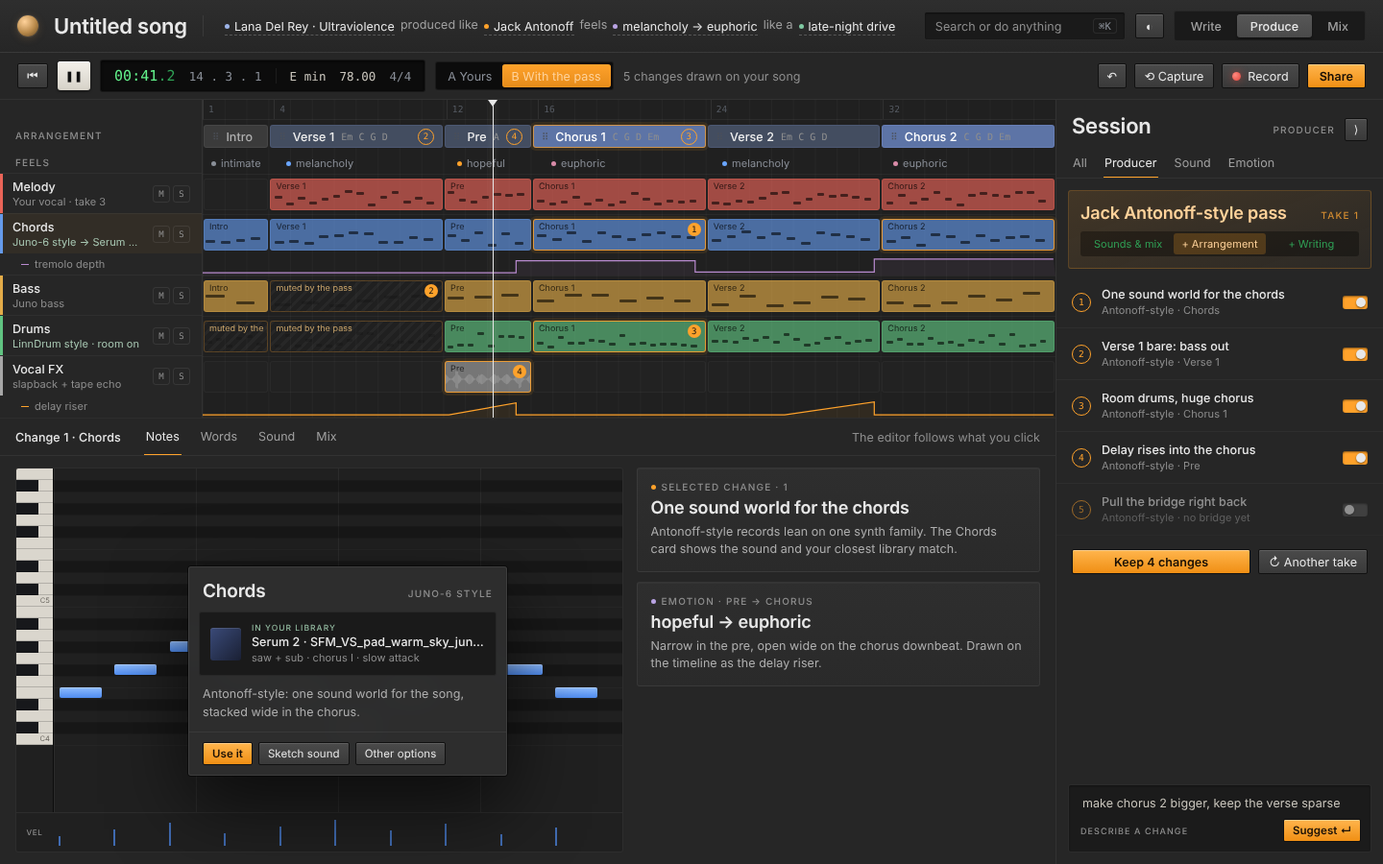
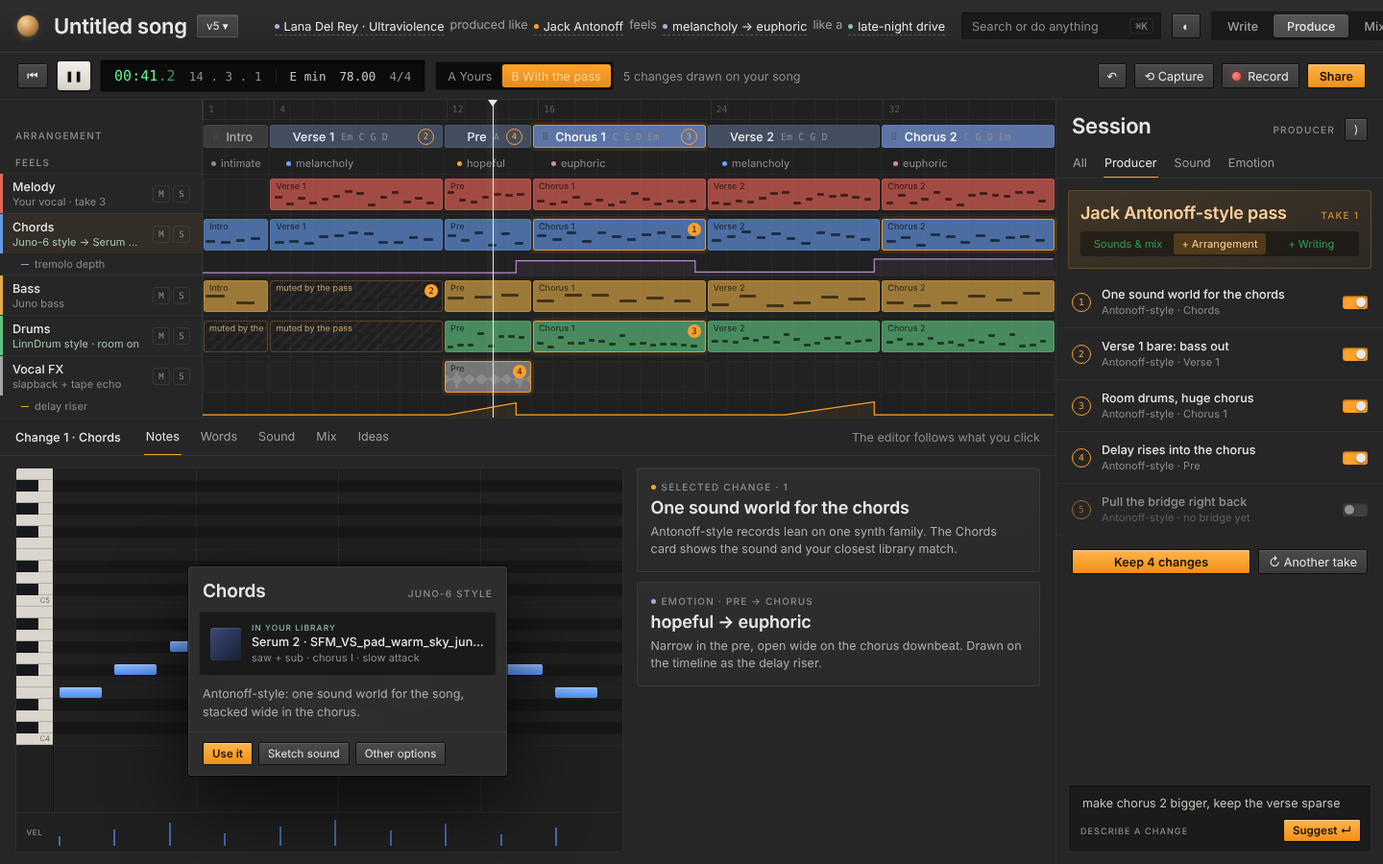
Design: Start with the recipe sentence, Words view, Versions, Ideas shelf, Pitch & share with range check; quality checks
Claude-Session: https://claude.ai/code/session_01Gwi5mznyCGAVwjhLcrp4R8

diff --git a/docs/design/merged/reference.dc.html b/docs/design/merged/reference.dc.html
@@ -13,7 +13,7 @@
 <style>
 body{margin:0;background:#0A0B0D}
 button,input{font:inherit;letter-spacing:inherit}
-button{cursor:pointer}
+button{cursor:pointer;white-space:nowrap}
 .sm{font-size:10px;letter-spacing:.12em;text-transform:uppercase;color:#6B7079;font-weight:500}
 .mono{font-family:'JetBrains Mono',monospace;font-variant-numeric:tabular-nums}
 .serif{font-family:'Instrument Serif',Georgia,serif;font-weight:400;letter-spacing:0}
@@ -26,8 +26,8 @@ button{cursor:pointer}
 
   <!-- 1 · header: song, recipe sentence, ⌘K, lens -->
   <header style="height: 54px; flex-shrink: 0; display: flex; align-items: center; gap: 16px; padding: 0 18px; border-bottom: 1px solid rgba(255,255,255,.06); background: linear-gradient(#121316, #0E0F12)">
-    <span aria-label="Semitone" style="width: 22px; height: 22px; border-radius: 50%; background: radial-gradient(circle at 35% 30%, #F1D6A6, #B8894A 55%, #5E4524); box-shadow: 0 0 0 1px rgba(255,255,255,.08), 0 2px 8px rgba(184,137,74,.25)"></span>
-    <span class="serif" style="font-size: 22px; line-height: 1">Untitled song</span>
+    <span aria-label="Semitone" style="flex-shrink: 0; width: 22px; height: 22px; border-radius: 50%; background: radial-gradient(circle at 35% 30%, #F1D6A6, #B8894A 55%, #5E4524); box-shadow: 0 0 0 1px rgba(255,255,255,.08), 0 2px 8px rgba(184,137,74,.25)"></span>
+    <span class="serif" style="font-size: 22px; line-height: 1; white-space: nowrap">{{songTitle}}</span><sc-if value="{{verChip}}" hint-placeholder-val="{{false}}"><button class="ghost xs" style="margin-left: -6px; border-color: {{verLine}}">v5 ▾</button></sc-if>
     <span style="width: 1px; height: 22px; background: rgba(255,255,255,.08)"></span>
     <div aria-label="Recipe" style="display: flex; align-items: baseline; gap: 6px; color: #7E838C; white-space: nowrap">
       <sc-for list="{{recipe}}" as="r" hint-placeholder-count="4">
@@ -157,6 +157,36 @@ button{cursor:pointer}
           <span style="margin-left: auto; align-self: center; color: #6B7079">{{drawerNote}}</span>
         </div>
         <div style="flex: 1; display: flex; gap: 14px; padding: 12px 16px; min-height: 0">
+          <sc-if value="{{lyr}}" hint-placeholder-val="{{false}}">
+            <div style="flex: 1.5; display: flex; border-radius: 8px; border: 1px solid rgba(255,255,255,.06); background: #0B0C0E; overflow: hidden; min-width: 0">
+              <div style="width: 96px; flex-shrink: 0; border-right: 1px solid rgba(255,255,255,.06); padding: 10px 0">
+                <sc-for list="{{lyr.secs}}" as="x" hint-placeholder-count="6"><div style="padding: 7px 14px; color: {{x.ink}}; background: {{x.bg}}; border-left: 2px solid {{x.line}}">{{x.name}}</div></sc-for>
+              </div>
+              <div style="flex: 1; min-width: 0; padding: 12px 16px; display: flex; flex-direction: column; gap: 4px">
+                <div style="display: grid; grid-template-columns: 1fr 78px 96px 22px; gap: 10px; padding-bottom: 6px; border-bottom: 1px solid rgba(255,255,255,.05)"><span class="sm">Verse 1 · lyric</span><span class="sm">Syllables</span><span class="sm">Stress vs beat</span><span class="sm">Rh.</span></div>
+                <sc-for list="{{lyr.lines}}" as="l" hint-placeholder-count="4">
+                  <div style="display: grid; grid-template-columns: 1fr 78px 96px 22px; gap: 10px; align-items: center; padding: 9px 0; border-bottom: 1px solid rgba(255,255,255,.035)">
+                    <span class="serif" style="font-size: 16.5px; color: #EDEBE6; white-space: nowrap; overflow: hidden; text-overflow: ellipsis">{{l.pre}}<span style="background: {{l.hiBg}}; border-bottom: 1px solid {{l.hiLine}}; color: {{l.hiInk}}">{{l.hi}}</span>{{l.post}}</span>
+                    <span class="mono" style="font-size: 11px; color: {{l.sylInk}}">{{l.syl}} / {{l.notes}} notes</span>
+                    <span style="display: flex; gap: 4px; align-items: center"><sc-for list="{{l.stress}}" as="d" hint-placeholder-count="8"><span style="width: {{d.w}}px; height: {{d.w}}px; border-radius: 50%; background: {{d.c}}; box-shadow: {{d.ring}}"></span></sc-for></span>
+                    <span class="mono" style="width: 20px; height: 20px; border-radius: 5px; background: {{l.rhBg}}; color: {{l.rhInk}}; font-size: 10.5px; display: flex; align-items: center; justify-content: center">{{l.rh}}</span>
+                  </div>
+                </sc-for>
+                <div style="display: flex; gap: 8px; margin-top: 8px; align-items: center; flex-wrap: wrap"><span class="sm">Rhymes for “leaving”</span><sc-for list="{{lyr.rhymes}}" as="r" hint-placeholder-count="6"><span style="padding: 3px 9px; border-radius: 999px; border: 1px solid rgba(255,255,255,.09); color: {{r.ink}}; font-size: 11.5px">{{r.w}}</span></sc-for></div>
+              </div>
+            </div>
+          </sc-if>
+          <sc-if value="{{ideas}}" hint-placeholder-val="{{false}}">
+            <div style="flex: 1.5; display: grid; grid-template-columns: repeat(3, 1fr); gap: 10px; align-content: start; min-width: 0">
+              <sc-for list="{{ideas}}" as="d" hint-placeholder-count="6">
+                <div style="padding: 11px 12px; border-radius: 9px; background: linear-gradient(#121316, #0F1013); border: 1px solid rgba(255,255,255,.06); display: flex; flex-direction: column; gap: 7px; box-shadow: inset 0 1px 0 rgba(255,255,255,.03)">
+                  <span class="sm" style="display: flex; align-items: center; gap: 6px"><span style="width: 5px; height: 5px; border-radius: 50%; background: {{d.color}}"></span>{{d.kind}}</span>
+                  <svg viewBox="0 0 200 28" preserveAspectRatio="none" style="width: 100%; height: 28px" aria-hidden="true"><path d="{{d.wave}}" stroke="{{d.color}}" stroke-width="1.5" opacity=".8" fill="none"></path></svg>
+                  <span style="font-weight: 500">{{d.title}}</span><span style="color: #6B7079; font-size: 11px">{{d.meta}}</span>
+                </div>
+              </sc-for>
+            </div>
+          </sc-if>
           <sc-if value="{{showRoll}}" hint-placeholder-val="{{true}}">
             <div style="flex: 1.5; display: flex; flex-direction: column; border-radius: 8px; border: 1px solid rgba(255,255,255,.06); overflow: hidden; background: #0B0C0E">
               <div style="flex: 1; display: flex; min-height: 0">
@@ -227,6 +257,20 @@ button{cursor:pointer}
             <sc-for list="{{cmdk}}" as="a" hint-placeholder-count="5"><div style="display: flex; justify-content: space-between; align-items: center; padding: 8px 9px; border-radius: 7px; background: {{a.bg}}"><span>{{a.name}}</span><span class="sm" style="font-size: 9px">{{a.tag}}</span></div></sc-for>
           </div>
           <div style="padding: 9px 14px; border-top: 1px solid rgba(255,255,255,.06); color: #6B7079; font-size: 11px; display: flex; justify-content: space-between"><span>Every command, plus your own chained actions</span><span style="color: #D9B37A">＋ Save as action</span></div>
+        </div>
+      </sc-if>
+
+      <sc-if value="{{versions}}" hint-placeholder-val="{{false}}">
+        <div role="dialog" aria-label="Versions" style="position: absolute; left: 30px; top: -50px; width: 470px; border-radius: 12px; background: rgba(20,21,24,.96); backdrop-filter: blur(14px); border: 1px solid rgba(255,255,255,.08); box-shadow: 0 30px 80px rgba(0,0,0,.65), 0 0 0 1px rgba(0,0,0,.5); z-index: 6; overflow: hidden">
+          <div style="padding: 13px 14px 8px; display: flex; justify-content: space-between; align-items: baseline"><span class="serif" style="font-size: 19px">Versions</span><span class="sm">Saved on every big change</span></div>
+          <sc-for list="{{versions}}" as="v" hint-placeholder-count="5">
+            <div style="display: flex; gap: 11px; align-items: center; padding: 9px 14px; background: {{v.bg}}; border-top: 1px solid rgba(255,255,255,.04)">
+              <span class="mono" style="width: 26px; color: {{v.ink}}">{{v.n}}</span>
+              <span style="flex: 1; display: flex; flex-direction: column; gap: 1px"><span style="font-weight: 500">{{v.name}} <span style="color: #D9B37A">{{v.star}}</span></span><span style="color: #6B7079; font-size: 11px">{{v.when}}</span></span>
+              <span class="sm" style="font-size: 9px; color: {{v.tagInk}}">{{v.tag}}</span>
+            </div>
+          </sc-for>
+          <div style="padding: 10px 14px; border-top: 1px solid rgba(255,255,255,.06); display: flex; gap: 6px"><button class="prim xs">Compare v3 with now</button><button class="ghost xs">Open v3 as a copy</button><button class="ghost xs">Save version ⌘S</button></div>
         </div>
       </sc-if>
 
@@ -331,7 +375,7 @@ button{cursor:pointer}
 <script type="text/x-dc" data-dc-script data-props='{"$preview":{"width":1440,"height":900}}'>
 class Component extends DCLogic {
   renderVals() {
-    var LENS = '__LENS__'; var EXTRA = '__EXTRA__'; var L = EXTRA === 'loops'; var COLL = EXTRA === 'collapsed'; var ADD = EXTRA === 'add' || EXTRA === 'added'; var MENU = EXTRA === 'add';
+    var LENS = '__LENS__'; var EXTRA = '__EXTRA__'; var L = EXTRA === 'loops'; var COLL = EXTRA === 'collapsed'; var ADD = EXTRA === 'add' || EXTRA === 'added'; var MENU = EXTRA === 'add'; var WORDS = EXTRA === 'words'; var VER = EXTRA === 'versions';
     var P = LENS === 'produce', W = LENS === 'write', M = LENS === 'mix';
     var BRASS = '#D9B37A';
     var C = { prod: BRASS, doc: '#9DB4E8', snd: '#7FC9A2', emo: '#B9A3E3', mix: '#7FC9A2', loop: '#6CC3C3' };
@@ -383,8 +427,8 @@ class Component extends DCLogic {
     if (L) tracks[5].cells[3].border = 'rgba(108,195,195,.85)', tracks[5].cells[3].glow = '0 0 0 3px rgba(108,195,195,.12)', tracks[5].cells[3].label = 'dream-pop gtr', tracks[5].cells[5].label = 'dream-pop gtr';
     var meters = [72, 58, 64, 80, 40, 50];
     tracks.forEach(function (t, i) { if (t.indent == null) t.indent = 0; if (t.tag == null) t.tag = false; t.meter = M ? meters[i] : false; t.meter2 = meters[i] - 6; t.soundInk = P && !L && (i === 1 || i === 3) ? '#A9C9B4' : '#6B7079'; t.headBg = L && i === 5 ? 'rgba(108,195,195,.06)' : P && !L && i === 1 ? 'rgba(217,179,122,.06)' : 'transparent'; });
-    var drawerTabs = M ? 'Mix' : L ? 'Sound' : 'Notes';
-    var drawer = ['Notes', 'Words', 'Sound', 'Mix'].map(function (n) { var on = n === drawerTabs; return { name: n, line: on ? BRASS : 'transparent', ink: on ? '#EDEBE6' : '#7E838C' }; });
+    var drawerTabs = WORDS ? 'Words' : VER ? 'Ideas' : M ? 'Mix' : L ? 'Sound' : 'Notes';
+    var drawer = ['Notes', 'Words', 'Sound', 'Mix', 'Ideas'].map(function (n) { var on = n === drawerTabs; return { name: n, line: on ? BRASS : 'transparent', ink: on ? '#EDEBE6' : '#7E838C' }; });
     var names = ['B', 'A♯', 'A', 'G♯', 'G', 'F♯', 'F', 'E', 'D♯', 'D', 'C♯', 'C'];
     var inScale = { 'E': 1, 'F♯': 1, 'G': 1, 'A': 1, 'B': 1, 'C': 1, 'D': 1 };
     var keys = []; for (var r = 0; r < 24; r++) { var nm = names[r % 12], oct = r < 12 ? 5 : 4, blk = nm.indexOf('♯') > -1; keys.push({ top: r * 12, key: blk ? 'linear-gradient(90deg, #17181B 60%, #DAD6CD 60%)' : '#DAD6CD', label: nm === 'C' ? 'C' + oct : '', row: blk ? 'rgba(0,0,0,.28)' : (W && inScale[nm] ? 'rgba(217,179,122,.035)' : 'transparent') }); }
@@ -395,7 +439,7 @@ class Component extends DCLogic {
     var ghosts = W ? [0, 1, 2, 3].map(function (k) { return { l: 1 + k * 24.5, t: [19, 23, 16, 21][k] * 12, w: 23.5 }; }) : [];
     var wv = ''; for (var x = 0; x <= 600; x += 3) { var a = (Math.sin(x / 9) * .45 + .55) * (x % 150 < 18 ? 32 : 17); wv += 'M' + x + ' ' + (35 - a).toFixed(1) + ' L' + x + ' ' + (35 + a).toFixed(1) + ' '; }
     var loop = L ? { wave: wv, opts: [['Fit to song tempo', 1], ['Fit to song key', 1], ['Follow the chords', 0], ['Slice into Drums', 0]].map(function (o) { return { name: o[0], bg: o[1] ? '#4F9E9E' : '#24262B', k: o[1] ? 13 : 2 }; }) } : false;
-    var cmdk = W && !ADD ? [['Double the chorus vocal and pan it', 'your action · 3 steps', 1], ['Double the bass under Chorus 2', 'edit'], ['Capture what I just played', 'record'], ['Export every section as stems', 'share'], ['Audition loops in Splice Bridge', 'sound']].map(function (a) { return { name: a[0], tag: a[1], bg: a[2] ? 'rgba(255,255,255,.06)' : 'transparent' }; }) : false;
+    var cmdk = W && !ADD && !WORDS && !VER ? [['Double the chorus vocal and pan it', 'your action · 3 steps', 1], ['Double the bass under Chorus 2', 'edit'], ['Capture what I just played', 'record'], ['Export every section as stems', 'share'], ['Audition loops in Splice Bridge', 'sound']].map(function (a) { return { name: a[0], tag: a[1], bg: a[2] ? 'rgba(255,255,255,.06)' : 'transparent' }; }) : false;
     function fx(list) { var o = list.map(function (f) { return { name: f, ink: '#C9C5BC', bg: '#17191D', dot: '#7FC9A2', lineStyle: 'solid' }; }); while (o.length < 3) o.push({ name: 'empty', ink: '#4C5058', bg: 'transparent', dot: '#2A2D32', lineStyle: 'dashed' }); return o; }
     var strips = M ? [['Melody', TC.mel, ['UAD 1176 Rev A', 'VintageVerb'], 72, 68, '−6.2', 0], ['Chords', TC.ch, ['Tremolator', 'Brigade Chorus'], 58, 60, '−9.1', -.5], ['Bass', TC.bass, ['Decapitator'], 64, 62, '−8.0', 0], ['Drums', TC.dr, ['Sound City room'], 80, 78, '−5.4', .2], ['Vocal FX', TC.fx, ['EchoBoy'], 40, 38, '−14.0', .6]].map(function (s) { var ang = s[6] * 2.3 - Math.PI / 2; return { name: s[0], color: s[1], fx: fx(s[2]), lvl: s[3], lvl2: s[4], db: s[5], cap: 100 - s[3] - 4, panX: (15 + Math.cos(ang) * 8).toFixed(1), panY: (15 + Math.sin(ang) * 8).toFixed(1) }; }) : false;
     var side = ADD && !MENU ? [
@@ -427,13 +471,27 @@ class Component extends DCLogic {
     var addMenu = MENU ? { gen: [['♪', 'Counter melody', 'answers the melody in its gaps', '#E3A9C9', 1], ['▁', 'Second bass', 'sub, octave or synth bass under Bass', '#B98A4E'], ['♫', 'Harmony / backing vocal', 'a third or sixth with the melody, your lyrics', '#D9776F'], ['⋰', 'Arpeggio from the chords', 'picks the chord tones in a pattern', '#7C95D9'], ['≈', 'Pad or strings bed', 'long notes that hold the chords', '#B9A3E3'], ['◦', 'Extra percussion', 'shaker, tambourine, claps', '#74B88F']].map(function (g) { return { icon: g[0], name: g[1], how: g[2], color: g[3], tint: hexA(g[3], .14), bg: g[4] ? 'rgba(255,255,255,.06)' : 'transparent' }; }),
       from: [['Layer it (linked)', 'same notes, a new sound on top · great for doubling'], ['Duplicate it', 'a copy you can change freely'], ['Move it an octave', 'a copy up or down, linked']].map(function (g) { return { name: g[0], how: g[1] }; }),
       empty: [['Pick an instrument…', 'built-in sounds or your plug-ins'], ['Audio part', 'record a voice or guitar']].map(function (g) { return { name: g[0], how: g[1] }; }) } : false;
+    var lyr = WORDS ? {
+      secs: secs.map(function (x, i) { var on = i === 1; return { name: x[0], ink: on ? '#EDEBE6' : '#7E838C', bg: on ? 'rgba(217,179,122,.06)' : 'transparent', line: on ? BRASS : 'transparent' }; }),
+      lines: [['In the ', 'blue', ' of the evening', 7, 8, 'A', [0, 0, 2, 0, 0, 1, 0], 2], ['I can hear the engine humming', '', '', 8, 8, 'B', [0, 0, 1, 0, 0, 1, 0, 0], -1], ['Every light along the highway', '', '', 8, 8, 'C', [1, 0, 0, 1, 0, 0, 1, 0], -1], ['Says that you’re already ', 'leaving', '', 8, 8, 'A', [1, 0, 0, 0, 1, 0, 1, 0], -1]].map(function (l) {
+        var rc = { A: ['rgba(217,179,122,.16)', '#F1D6A6'], B: ['rgba(157,180,232,.14)', '#B9C9EE'], C: ['rgba(127,201,162,.14)', '#A9D9BE'] }[l[5]];
+        var bad = l[1] === 'blue';
+        return { pre: l[0], hi: l[1], post: l[2], hiBg: bad ? 'rgba(157,180,232,.12)' : 'transparent', hiLine: bad ? '#9DB4E8' : (l[1] ? BRASS : 'transparent'), hiInk: bad ? '#DCE4FF' : '#F1D6A6', syl: l[3], notes: l[4], sylInk: l[3] === l[4] ? '#7FC9A2' : '#D9B37A', rh: l[5], rhBg: rc[0], rhInk: rc[1],
+          stress: l[6].map(function (v) { return { w: v ? 8 : 5, c: v === 2 ? '#9DB4E8' : v ? '#EDEBE6' : '#3A3D44', ring: v === 2 ? '0 0 0 3px rgba(157,180,232,.25)' : 'none' }; }) }; }),
+      rhymes: [['evening', 1], ['grieving'], ['believing'], ['ceiling', 0, 'near'], ['breathing', 0, 'near'], ['dreaming', 0, 'near']].map(function (r) { return { w: r[0] + (r[2] ? ' ·' + r[2] : ''), ink: r[1] ? '#F1D6A6' : '#C9C5BC' }; }) } : false;
+    function iw(n, kind) { var d = ''; if (kind === 'notes') { for (var i = 0; i < 9; i++) { var y = 6 + ((i * 7 + n * 5) % 16); d += 'M' + (i * 22 + 4) + ' ' + y + ' L' + (i * 22 + 18) + ' ' + y + ' '; } return d; } for (var x = 0; x <= 200; x += 3) { var a = (Math.sin(x / 6 + n) * .45 + .55) * ((x + n * 30) % 60 < 9 ? 12 : 6); d += 'M' + x + ' ' + (14 - a).toFixed(1) + ' L' + x + ' ' + (14 + a).toFixed(1) + ' '; } return d; }
+    var ideas = VER ? [['Capture', '#D9776F', 'Hummed hook, chorus?', '0:12 · F♯ minor · yesterday', 'notes'], ['Voice memo', '#D9776F', '“Drive me home” in the car', '0:41 · from iPhone', 'wave'], ['Loop', '#6CC3C3', 'dreampop_gtr_shimmer', '4 bars · fitted to E minor', 'wave'], ['Chord idea', '#7C95D9', 'Em – C – G – B7', 'the B7 lifts into the chorus', 'notes'], ['Lyric line', '#B9A3E3', '“Radio low, your hand on mine”', 'written Tuesday', 'notes'], ['Beat', '#74B88F', 'Brush shuffle, 78', 'from Capture', 'notes']].map(function (d, i) { return { kind: d[0], color: d[1], title: d[2], meta: d[3], wave: iw(i, d[4]) }; }) : false;
+    var versions = VER ? [['v5', 'Counter melody + strings layer', 'now · autosaved', 'current', 1], ['v4', 'Antonoff-style pass kept', 'today 17:20', 'pass'], ['v3', 'Before the bridge rewrite', 'today 15:02 · you named it', 'named', 0, '★'], ['v2', 'Chorus lifted a semitone', 'yesterday', 'edit'], ['v1', 'First sketch', 'Tue 4 Nov', 'start']].map(function (v) { var cur = !!v[4]; return { n: v[0], name: v[1], when: v[2], tag: v[3], tagInk: cur ? BRASS : '#6B7079', star: v[5] || '', bg: v[0] === 'v3' ? 'rgba(255,255,255,.05)' : 'transparent', ink: cur ? BRASS : '#8A8F98' }; }) : false;
+    if (WORDS) { side = [{ kind: 'Song doctor · 1', dot: C.doc, title: '“blue” lands on a weak beat', text: 'The stressed syllable falls between beats (blue dot). Move the note to beat 1, or swap it for a two-syllable word like “indigo”.' }, { kind: 'Rhyme scheme', dot: BRASS, title: 'A B C A', text: 'Lines 1 and 4 rhyme (evening / leaving). Try making line 3 rhyme with line 2 for an A B B A verse.' }]; }
+    if (VER) { side = [{ kind: 'Ideas shelf', dot: '#D9776F', title: 'Everything not in a song yet', text: 'Captures, phone memos, loops, chord ideas and lines. Drag one onto a section to use it; it fits your key and tempo.' }, { kind: 'Versions · compare', dot: BRASS, title: 'v3 against now', text: 'Plays the same bar in both, switching instantly, so you hear what the bridge rewrite and new parts changed.' }]; }
     return {
+      songTitle: 'Untitled song', verChip: VER || COLL || W || P || M, verLine: VER ? 'rgba(217,179,122,.6)' : 'rgba(255,255,255,.09)', lyr: lyr, ideas: ideas, versions: versions,
       addRow: ADD, addInk: MENU ? '#EDEBE6' : '#9BA0A8', addLine: MENU ? 'rgba(217,179,122,.6)' : 'rgba(255,255,255,.09)', addMenu: addMenu,
       rail: rail, full: !COLL, asideW: COLL ? 58 : 340, themes: themes,
       recipe: recipe, lenses: lenses, sections: sections, tracks: tracks, drawer: drawer, roll: roll, keys: keys, strips: strips, side: side, filters: filters, feed: feed, levels: levels, pop: pop,
       ab: P && !L, snaps: M, splice: L, ghosts: ghosts, loop: loop, cmdk: cmdk, rollFoot: P ? 'Vel' : 'Words',
       transportNote: L ? '' : P ? '5 changes drawn on your song' : '',
-      selected: ADD ? (MENU ? 'Verse 1 · Melody' : 'Counter melody · new') : L ? 'Chorus 1 · Loops' : W ? 'Verse 1 · Melody' : P ? 'Change 1 · Chords' : 'All parts', showRoll: !M && !L, drawerNote: ADD ? (MENU ? 'Pick a part to add' : 'Ghost notes: Melody and Chords') : L ? 'Dropped loops fit your song automatically' : W ? 'Scale lock E minor · Ghosts: Chords' : P ? 'The editor follows what you click' : 'Your plug-ins on each part',
+      selected: WORDS ? 'Verse 1 · Words' : VER ? 'Ideas shelf' : ADD ? (MENU ? 'Verse 1 · Melody' : 'Counter melody · new') : L ? 'Chorus 1 · Loops' : W ? 'Verse 1 · Melody' : P ? 'Change 1 · Chords' : 'All parts', showRoll: !M && !L && !WORDS && !VER, drawerNote: WORDS ? 'Each line against the melody’s notes and beats' : VER ? 'Drag an idea onto a section' : ADD ? (MENU ? 'Pick a part to add' : 'Ghost notes: Melody and Chords') : L ? 'Dropped loops fit your song automatically' : W ? 'Scale lock E minor · Ghosts: Chords' : P ? 'The editor follows what you click' : 'Your plug-ins on each part',
       feedNote: L ? 'Loops & sounds' : P ? 'Producer' : W ? 'Writing help' : 'Mix help', passHead: P && !L, keepBar: P && !L,
       ask: L ? 'find a warmer loop for chorus 2' : W ? 'make verse 2 different but familiar' : P ? 'make chorus 2 bigger, keep the verse sparse' : L ? 'find a warmer loop for chorus 2' : 'make the vocal sit forward on phones'
     };

diff --git a/docs/design/merged/README.md b/docs/design/merged/README.md
@@ -139,6 +139,54 @@ Chords, Bass, Drums); extra sounds only exist as per-section chord layers (`S.se
   plug-in host must all handle any number of parts, each on its own MIDI channel. Old songs load unchanged.
 - Helpers can suggest parts too (Session: "Strings layer only in the choruses", "Bass 2 doubles the root: thin it in verses").
 
+## The songwriter's screens (agreed 6 Nov 2026)
+Pictures: `9-Start.png`, `10-Words.png`, `11-Versions-and-Ideas.png`, `12-Pitch-and-share.png`.
+
+**Start (new song).** "What are we writing?" followed by the recipe as one big editable sentence: *A song like [style · era]
+produced like [producer] that feels [emotion arc] like a [vibe] in [key] at [tempo] for [purpose]*. Each value is a
+dashed-underline word that opens the existing tag picker. "Or start from" chips: a hummed melody, a chord loop, a lyric, a
+reference song, a loop. Then **Start the song** and **Surprise me**. Below that: recent songs (with a mini arrangement bar and their
+recipe), the Ideas shelf, and Keep learning (a lesson built in the last song's key, plus a tip).
+
+**Words (drawer tab).** A section list on the left. Each lyric line is in the serif face with:
+- **Syllables vs the melody's notes** for that line (green when they match, brass when they don't).
+- **Stress vs beat** dots: big for stressed syllables. A blue ringed dot marks a stressed syllable on a weak beat, which is
+  the song doctor's "lands on a weak beat", shown in place and highlighted in the line.
+- **Rhyme letter** (A/B/C, coloured by group), plus a rhyme-scheme card ("A B C A … try A B B A").
+- **Rhymes** for the selected word: true rhymes first, then near rhymes marked "near". Use a local rhyme dictionary
+  (bundled, e.g. CMUdict-based), not a web service.
+
+**Versions.** A "v5 ▾" chip next to the song title. A version is saved automatically on every big change (a kept pass, an
+added part, a key change, a rewrite of a section), with a plain name ("Antonoff-style pass kept"). The user can name and star
+one too (⌘S). Actions: **Compare vN with now**, which A/Bs the same bar in both and switches instantly, and **Open as a copy**.
+Versions live in the song file (a list of `projectData()` snapshots, deduplicated). This is separate from undo.
+
+**Ideas shelf (drawer tab "Ideas", also on Start).** Everything not in a song yet: Captures, phone voice memos, loops,
+chord ideas, lyric lines, beats. Each card shows a mini waveform or notes, a title and where it came from. Drag a card onto a
+section to use it (it fits the key and tempo), or "Start from this" on the Start screen. Stored locally in Documents/Semitone
+Studio/Ideas. Phone capture needs hosting, so ask Jamie first. Until then, memos can be dropped in from Finder.
+
+**Pitch & share (from Share).**
+- **Pitching to [artist]** with a **range check**: a keyboard showing the artist's usual range (from data in
+  `style-library.json`: add `range` per artist/era with a source note; mark it as a guide), the melody's range, and the
+  highest and lowest notes that fall outside. Suggest the nearest key that fits ("D minor (−2)") with **Hear it in D minor** and
+  **Add D minor demo**. The check reads only the user's notes.
+- **The pack** (checklist): demo mix (WAV + MP3, loudness matched), alt-key demo, lyric sheet PDF with chords above the words,
+  chord chart PDF, stems (including plug-ins), MIDI, and song notes (key, tempo, structure, credits). **Make the pitch pack**
+  writes a folder. Share links need hosting, so ask Jamie first.
+- **Lyric sheet preview** on paper: title, key, tempo, length, "Words & music: …", "Demo: guide vocal", and sections with chords.
+- **Credits & splits** saved with the song (writer names and percentages), printed on the sheet and in the notes.
+- The demo uses the built-in neutral guide vocal or Jamie's own recording, never an imitation of the artist's voice.
+
+## Quality checks for every step
+- **Design check:** after each build step, screenshot the real app at 1440×900 in every theme and compare it with these boards.
+  Fix any drift before moving on (spacing, type, colours, one filled button per area, no bright saturated blocks).
+- **Contrast:** text on panels must be at least 4.5:1 in every theme. Track colours also get a small part icon, so they don't rely on colour
+  alone (colour-blind users).
+- **Big songs:** test with 24 parts and a 6-minute song. Scrolling, playback and the drawer must stay smooth (under 16 ms per frame
+  when idle, no dropped audio).
+- **Keyboard:** every action reachable by keyboard, with visible focus rings in the accent colour, and a ? overlay listing the shortcuts.
+
 ## Order to build
 1. Look tokens as CSS variables across the existing UI, Studio Black first, then the theme picker and the other
    four themes from `themes.json`. This is the cheapest and most visible step.
@@ -150,4 +198,6 @@ Chords, Bass, Drums); extra sounds only exist as per-section chord layers (`S.se
 5. Open-ended parts: Add a part, linked layers, duplicates, counter melody and second bass.
 6. Capture, the takes lane, ghost notes and scale lock, ⌘K actions, section drag, mix snapshots.
 7. Loops: drop, paste and fit, then Splice Bridge recognition, the hidden audition track and host sync.
+8. Start screen with the recipe sentence, then the Words tab, then Versions and the Ideas shelf.
+9. Pitch & share: range check (add artist ranges to the data), the pitch pack folder, the lyric sheet and credits.
 Each step needs tests in `tests/web/` and a plain-words note for Jamie, and must keep working as a plain web page.

diff --git a/AGENTS.md b/AGENTS.md
@@ -6,7 +6,7 @@ how to build and test, the sound engine rules, and FL Studio lessons learned the
 ## New: the merged design (6 Nov 2026), build this next
 Jamie approved a redesign that joins the app into one screen: one timeline, Write / Produce / Mix lenses,
 one drawer, one Session panel, popovers, a premium look, borrowed DAW ideas (Capture, takes, ghost notes,
-⌘K actions, section drag, mix snapshots), and loops plus Splice Bridge support that only appears when used, five switchable themes (`docs/design/merged/themes.json`) a collapsible Session panel, and open-ended parts (Add a part, linked layers, counter melody, second bass).
+⌘K actions, section drag, mix snapshots), and loops plus Splice Bridge support that only appears when used, five switchable themes (`docs/design/merged/themes.json`) a collapsible Session panel, open-ended parts (Add a part, linked layers, counter melody, second bass), and the songwriter screens (Start with the recipe sentence, Words with syllables, stress and rhyme, Versions, the Ideas shelf, Pitch & share with a range check and pitch pack).
 **Read `docs/design/merged/README.md`.** It is the spec, with pictures and a build order. Where it disagrees with
 the older `docs/design/N-*.png` screens or the design notes below, the merged design wins.
 
